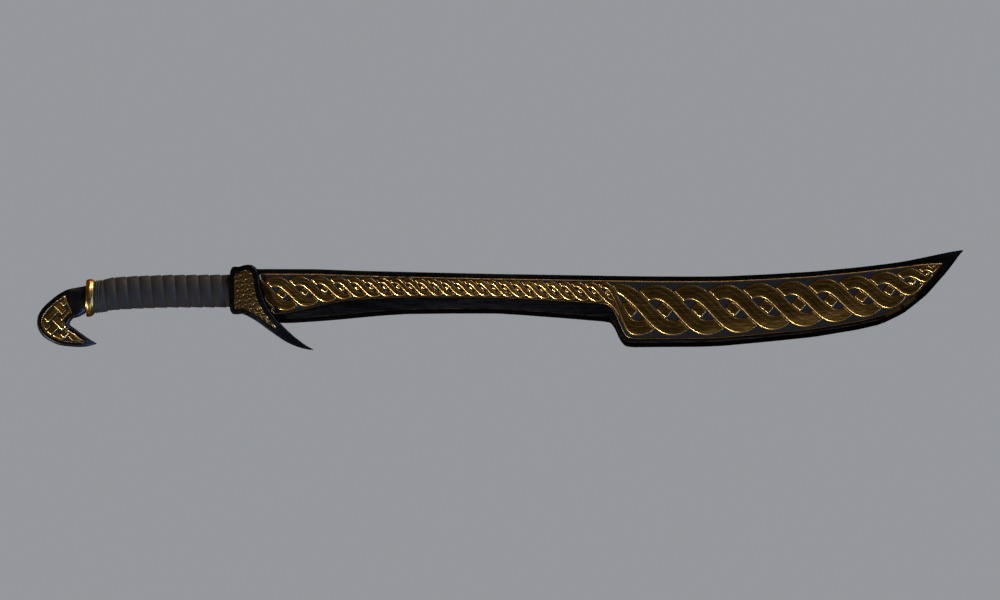
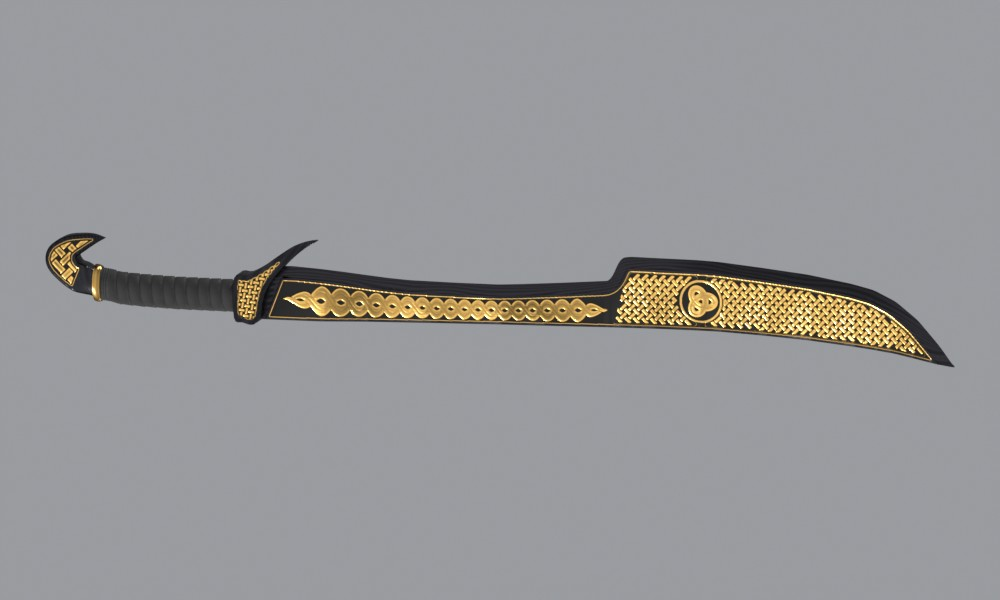
1.4.0: the curved saber's new blade carving (saber B: A5j v4b blade on the A5i hilt), Nordic and Ebony quality
items.py: the sword item takes A5i-sf's metal NIF with its old blade dropped ("drop_islands_y_over" 20 - guard,
ferrule and pommel stay), the A5i wrap, and the A5j v4b blade (set2 work_sword_a5jM, build key M) as its own shape
TN_sword_blade on its own 2048 atlas, undecimated; the edge blood is cut from the blade (blood_from). gb_blender.py:
the drop step. ebony.py: the damascus pass also runs on a "blade" role's atlas (orig_blade.npz). Sheath C2 unchanged
(no blade vertex above the guard leaves it, A5i's blade as the control). The installer pictures of the curved saber
re-rendered from the staged game NIFs. Every other item's staged and packaged files byte-identical.

Changed region(s): [[0.031, 0.39, 0.961, 0.63]]

diff --git a/tools/ebony.py b/tools/ebony.py
@@ -19,7 +19,8 @@ as painted). Rivets, pommels, sockets and caps fail one of the three tests. ring
 Only metal pixels (RMAOS G >= 0.5) change; leather, wood, string and wraps are untouched (an atlas with no metal is copied).
 Normal maps are the shared build's DDS, copied (the relief is the same).
 DAMASCUS (1.4.0, 2026-11-15, the owner 19:19 "Pbr Damascus"): after recolour(), damascus() lays procedural damascus
-bands on the plain black steel of every weapon's and shield's metal atlas (DAMASCUS_ITEMS; not the sheaths, quivers,
+bands on the plain black steel of every weapon's and shield's metal atlas, and of a blade atlas of its own (role "blade":
+the saber B build, WORK\<item>\orig_blade.npz) (DAMASCUS_ITEMS; not the sheaths, quivers,
 arrows or bolts) - albedo +/- 0.025, roughness -/+ 0.22, from each item's own mesh (WORK\<item>\orig_metal.npz; the
 crossbow's painter dump). Never on gold, carved floors or non-metal (the build refuses). --no-damascus builds without it.
 
@@ -251,6 +252,9 @@ def recolour(base, rings=None):
 # the arrows' and the bolts' atlases stay plain (their fittings are not pattern-welded steel).
 DAMASCUS = True                                                    # python -I ebony.py --no-damascus: the plain look
 DAMASCUS_ITEMS = [k for k in EBONY_ITEMS if k not in ("quiver", "boltquiver")]
+# the steel atlases that take it: "metal", and "blade" - a blade on an atlas of its own (the saber B build, 1.4.0: A5j
+# v4b's blade beside A5i's hilt), its geometry WORK\<item>\orig_blade.npz
+DAMASCUS_ROLES = ("metal", "blade")
 DAM = dict(period=0.42, warp=1.0, fine=0.30, a_alb=0.025, a_r=0.22)   # the demo's setting A (medium bands)
 DAM_ZCUT, DAM_WELD, DAM_SEED = 1.5, 0.02, 1347
 
@@ -282,14 +286,14 @@ def dam_pattern(u, v, period, warp, fine_w):
     return np.clip((1 - fine_w) * b1 + fine_w * b2, 0, 1)
 
 
-def dam_geometry(item, W, H):
+def dam_geometry(item, W, H, role="metal"):
     """(per-triangle xyz (T,3,3), per-triangle pixel uv (T,3,2) rows down, per-triangle part label, source) or None."""
-    p = os.path.join(WORK, item, "orig_metal.npz")
+    p = os.path.join(WORK, item, f"orig_{role}.npz")
     if os.path.isfile(p):
         d = np.load(p); V, F, UV = d["V"].astype(np.float64), d["F"], d["UV"].astype(np.float64)
         px = (UV if UV.ndim == 3 else UV[F]) * np.array([W, H]); px[..., 1] = H - px[..., 1]
         src = p
-    elif item in RING_SOURCE:
+    elif role == "metal" and item in RING_SOURCE:
         d = np.load(RING_SOURCE[item]); xyz = d["xyz"].astype(np.float64); px = d["uv"].astype(np.float64)
         V = xyz.reshape(-1, 3); F = np.arange(len(V)).reshape(-1, 3); src = RING_SOURCE[item]
     else: return None
@@ -352,11 +356,11 @@ def dam_uv(T, plab, P, L, sel):
     return u, v
 
 
-def damascus(item, base, alb, rmo, g):
-    """The damascus pass on one recoloured metal atlas (after recolour()). Returns (albedo, rmaos, band preview or None,
+def damascus(item, base, alb, rmo, g, role="metal"):
+    """The damascus pass on one recoloured steel atlas (after recolour()). Returns (albedo, rmaos, band preview or None,
     stats). Only the plain black steel changes."""
     Hh, Ww = alb.shape[:2]
-    geo = dam_geometry(item, Ww, Hh)
+    geo = dam_geometry(item, Ww, Hh, role)
     if geo is None: return alb, rmo, None, {"damascus": "no geometry - plain"}
     T, px, plab, src = geo
     a0 = np.asarray(Image.open(base + "_rmaos.png").convert("RGBA"), np.float32) / 255
@@ -520,8 +524,8 @@ def build(items):
             W_, H_ = Image.open(base + ".png").size
             rings, found = ring_mask(item, W_, H_) if role == "metal" else (None, [])
             c, rmo, g, stt = recolour(base, rings)
-            if role == "metal" and DAMASCUS and item in DAMASCUS_ITEMS:
-                c, rmo, bands, dst = damascus(item, base, c, rmo, g); stt.update(dst)
+            if role in DAMASCUS_ROLES and DAMASCUS and item in DAMASCUS_ITEMS:
+                c, rmo, bands, dst = damascus(item, base, c, rmo, g, role); stt.update(dst)
                 if bands is not None:
                     im = Image.fromarray(np.clip(bands * 255, 0, 255).astype(np.uint8)); im.thumbnail((1024, 1024))
                     im.save(os.path.join(EB_WORK, "masks", name + "_damascus.jpg"), quality=90)

diff --git a/tools/items.py b/tools/items.py
@@ -33,10 +33,21 @@ ITEMS = {
 # off-centre). Scored against XPMSSE + steel / Nord plate / Nordic carved cuirasses (the owner's), slices of the
 # weapon fully behind the armour from the side: Nordic carved 9 -> 6 (vanilla steel sheath 6), buried depth sum
 # 21.5 -> 6.0 (vanilla 6.8). The first-person NIF is not moved (its sheath never shows; the blade stays straight in view).
-    "sword": dict(hip=dict(rot_x_deg=-4.0, pivot=[-0.28, -2.98, 0.67], shift=[0.0, 0.0, -1.25]), version="A5i-sf", sources=[W(r"work_sword_a5i_sf\A5I_metal.nif"), os.path.join(PLAN, r"A5\work\A5_wrap.nif")], orient=True, option=True,
+    # saber B (1.4.0, 2026-11-15; the owner 18:58 "Build the ebony version with saber b for now"): the BLADE is A5j v4b
+    # (set2\sword_a5j_build.py key M, `bash set2\run_aa.sh sword_a5j M`: blank first, one constant edge bevel, the narrow
+    # braid with pointed ends, the weave cut at the 18:14 line, the triquetra medallion in the weave), built on A5i's exact
+    # outline in A5i's own frame; the hilt (guard, ferrule, pommel, wrap) stays A5i-sf's. The A5i metal NIF keeps only its
+    # welded pieces reaching no higher than y 20 ("drop_islands_y_over", as the approved renders' render_game_pbr.py did):
+    # its old blade leaves. The v4b blade is a shape of its own (TN_sword_blade) on its own 2048 atlas, undecimated; the
+    # edge blood is cut from it. Sheath C2 unchanged: no v4b blade vertex above the guard leaves it (A5i's blade the
+    # control; 4. plans\nordic-carved-missing-weapons-20261115\work\saber_b_build\sheath_fit_*.json).
+    "sword": dict(hip=dict(rot_x_deg=-4.0, pivot=[-0.28, -2.98, 0.67], shift=[0.0, 0.0, -1.25]), version="A5i-sf hilt + A5j v4b blade (saber B)",
+                  sources=[W(r"work_sword_a5i_sf\A5I_metal.nif"), os.path.join(PLAN, r"A5\work\A5_wrap.nif"), W(r"work_sword_a5jM\tn_sword_a5jM.nif")], orient=True, option=True,
                   sheath=dict(version="saber C2 (falchion fit, ringed symbol)", src=W(r"work_sheath_saber_fitC2\tn_sheath_saber_fitC2.nif"), tex=W(r"work_sheath_saber_fitC2\tex\tn_sheath_saber_fitC2")),
-                  shapes={"metal": {"name": "NordicSwordA5", "tex": W(r"work_sword_a5i_sf\tex\nordicsworda5i")},
-                          "wrap": {"name": "NordicWrapA5", "tex": None, "dds_from": r"D:\Modlists\Njordlinger\mods\Nordic Carved Redesign A (test)\textures\pbr\ApocryphaTest\NordicCarvedRedesignA5\nordicwrapa5"}},
+                  shapes={"metal": {"name": "NordicSwordA5", "tex": W(r"work_sword_a5i_sf\tex\nordicsworda5i"), "drop_islands_y_over": 20.0},
+                          "wrap": {"name": "NordicWrapA5", "tex": None, "dds_from": r"D:\Modlists\Njordlinger\mods\Nordic Carved Redesign A (test)\textures\pbr\ApocryphaTest\NordicCarvedRedesignA5\nordicwrapa5"},
+                          "blade": {"name": "TNSaberA5j", "tex": W(r"work_sword_a5jM\tex\tn_sword_a5jM"), "target": None}},
+                  blood_from="blade",
                   third="nordicsword.nif", first="1stpersonnordicsword.nif", stem="sword", weap="DLC2NordicSword", fp_stat="03C353"),
     # the straight sword (installer option, 2026-11-11): greatsword v3's blade and upper hilt as a one-hander
     # 1.1.0 shading fix (2026-11-12): v1-sf = v1's NIF with the flat guard and pommel faces' outline vertices split from
@@ -277,7 +288,9 @@ def blender_config():
         if it.get("sheath"): c["sheath"] = it["sheath"]["src"]   # welded and oriented on its own, never decimated
         for role, sh in it["shapes"].items():
             t = sh.get("target", METAL_T if role == "metal" else WRAP_T)
-            c["shapes"][role] = {"name": sh["name"], "target": t, "atlas_px": 2048 if role in ("metal", "board") else 512}
+            c["shapes"][role] = {"name": sh["name"], "target": t, "atlas_px": 2048 if role in ("metal", "board", "blade") else 512}
+            if sh.get("drop_islands_y_over") is not None: c["shapes"][role]["drop_islands_y_over"] = sh["drop_islands_y_over"]
+        if it.get("blood_from"): c["blood_from"] = it["blood_from"]   # the shape the edge blood is cut from (default metal)
         vp = vanilla_path(k, "third")
         if vp and k != "bow":
             pr = probe[vp.replace("\\", "/")] if vp.replace("\\", "/") in probe else probe[vp]

diff --git a/tools/gb_blender.py b/tools/gb_blender.py
@@ -225,9 +225,32 @@ for src in C["sources"]:
     before = set(bpy.data.objects); bpy.ops.import_scene.pynifly(filepath=src)
     for o in set(bpy.data.objects) - before:
         if o.type != "MESH": bpy.data.objects.remove(o)
+def drop_islands_y_over(o, thr):
+    """Delete the shape's pieces (vertices welded by position at 1e-3, joined by edges) that reach above world y thr - the
+    saber B build (1.4.0): A5i's old blade leaves its metal shape, its guard (to y 9.7), ferrule and pommel stay."""
+    me = o.data; M = o.matrix_world
+    V = np.array([list(M @ v.co) for v in me.vertices]); key = np.round(V * 1000).astype(np.int64)
+    _, inv = np.unique(key, axis=0, return_inverse=True); inv = inv.ravel(); par = list(range(int(inv.max()) + 1))
+    def find(i):
+        while par[i] != i: par[i] = par[par[i]]; i = par[i]
+        return i
+    for e in me.edges:
+        a_, b_ = find(int(inv[e.vertices[0]])), find(int(inv[e.vertices[1]]))
+        if a_ != b_: par[a_] = b_
+    lab = np.array([find(int(inv[i])) for i in range(len(V))]); top = {}
+    for i, l in enumerate(lab): top[l] = max(top.get(l, -1e9), V[i, 1])
+    kill = {i for i in range(len(V)) if top[lab[i]] > thr}
+    bm = bmesh.new(); bm.from_mesh(me); bm.verts.ensure_lookup_table()
+    bmesh.ops.delete(bm, geom=[bm.verts[i] for i in sorted(kill)], context="VERTS"); bm.to_mesh(me); bm.free(); me.update()
+    rep = {"threshold_y": thr, "pieces": len(top), "pieces_dropped": sum(1 for t in top.values() if t > thr),
+           "verts_dropped": len(kill), "verts_kept": len(V) - len(kill), "kept_y_max": round(max((t for t in top.values() if t <= thr), default=0.0), 3)}
+    print("DROP", o.name, json.dumps(rep)); return rep
+
 shapes = {}
 for role, sh in C["shapes"].items():
     o = bpy.data.objects[sh["name"]]; o.name = "dec_" + role
+    if sh.get("drop_islands_y_over") is not None:
+        stats.setdefault("dropped_islands", {})[role] = drop_islands_y_over(o, float(sh["drop_islands_y_over"]))
     orig = o.copy(); orig.data = o.data.copy(); orig.name = "orig_" + role; bpy.context.collection.objects.link(orig)
     n0 = decimate(o, sh.get("target"))
     V, F, UV = arrays(orig); np.savez(os.path.join(OUT, f"orig_{role}.npz"), V=V, F=F, UV=UV)

diff --git a/CHANGELOG.md b/CHANGELOG.md
@@ -18,6 +18,7 @@ Written as changes happen, not reconstructed afterwards (rule 61). Each version 
 - Additional Weapons: the Carved Nordic Crossbow, a new crossbow in the Nordic carved style. Its stock carries a flat steel deck with the bolt groove inset to the front face, one roller nut holding the string, an engraved steel-plated hand-hold block with the triquetra on its lock plates, and the prod mounted on the front face in a steel bridle with a stirrup. The arms stand on edge with a carved braid on their faces and are bent back like the vanilla crossbow's. A steel cocking lever swings up during the reload, as on the vanilla crossbow. It draws and reloads with the vanilla crossbow animations, and is forged and tempered at Nordic or Ebony quality.
 
 ### Changed
+- The Carved Nordic Sword's curved saber has a newly carved blade. A plain blank with one polished edge bevel of even width runs from the guard to the point; up the narrow lower blade runs a slim two-strand braid with pointed ends, and the wide upper blade is filled with weave cut square where the blade widens, with the triquetra on a dark disc and polished ring set into the weave. The blade's outline, length and weight, the guard, grip, hooked pommel and the scabbard are unchanged, in every file that has the curved saber, at Nordic and Ebony quality (the Ebony saber takes the damascus steel on its plain steel like the other Ebony weapons).
 - Additional Weapons: the Carved Nordic Halberd's blade has a bearded crescent - its lower edge sweeps in one smooth concave curve from the beard's point up to the haft, where it used to run straight across. The braid border, weave and triquetra medallion are carved afresh to fill the new blade shape. The cutting edge, the spikes, the haft and the length are unchanged, at Nordic and Ebony quality.
 - The Ebony quality items that are added as their own items carry Ebony in their names: Carved Nordic Ebony Sword, War Axe, Battleaxe, Greatsword, Warhammer, Dagger, Mace, Bow, Shield and Arrow in Standalone - Ebony quality, and Carved Nordic Ebony Spear, Halberd, Crossbow and Bolt in the Ebony quality choice of Additional Weapons. The Nordic quality names and the Replacer files' names are unchanged, and so are every item's FormID and EditorID, so existing saves keep their items.
 - Additional Weapons, Ebony quality: the two steel collars at the ends of the Carved Nordic Ebony Crossbow's grip wrap are gold, like the rings on the grip of every other Ebony quality weapon. Nothing else on the crossbow changed, and the Nordic quality crossbow is unchanged.
